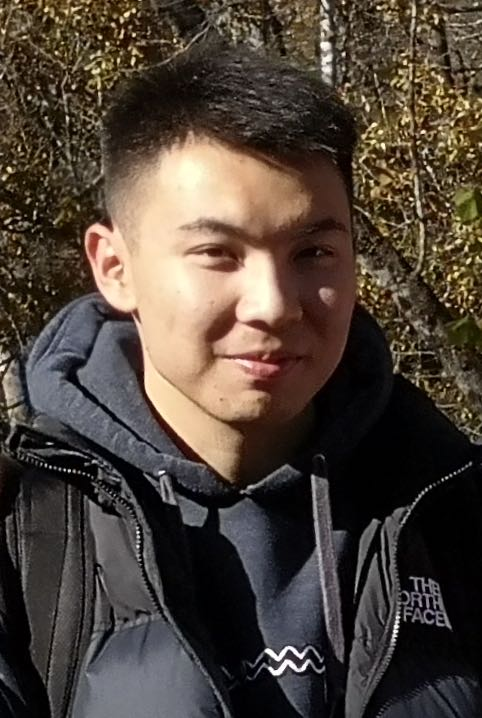
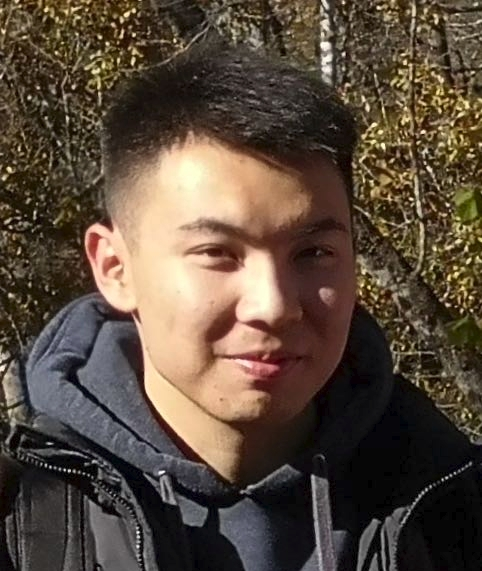
update authors

diff --git a/content/authors/Bingqing_Wan/_index.md b/content/authors/Bingqing_Wan/_index.md
@@ -18,9 +18,13 @@ user_groups:
 I am a undergraduate visiting research student at Prof. Hong Zhang's group in 2022. Then, I am going back to Canada to continue my junior year in Engineering Science at the University of Toronto, pursuing a major in robotics engineering and a minor in artificial intelligence engineering. Feel free to reach out to me via email or LinkedIn for any potential collaborations.
 
 ### Research
-![research](authors_research/jiahao_ruan.gif "Research Introduction")
+![research](authors_research/bingqing_wan.png "Research Introduction")
 
 My current research interests lie in the fields of domestic mobile robots and autonomous driving, including:
 1. Learning-based motion planning
 2. Keyframe-based visual simultaneous localization and mapping
 3. Semantic mapping
+
+### Publications
+- Wan, Bingqing (Selina), et al. "Data Driven Optical Flow Prediction for Improving Direct Method
+Visual SLAM Systems." 2022 IEEE international conference on robotics and biomimetics (ROBIO). IEEE, 2022.

diff --git a/content/authors/Jiahao_Ruan/_index.md b/content/authors/Jiahao_Ruan/_index.md
@@ -18,6 +18,8 @@ user_groups:
 I am a visiting student in Robotics and Computer Vision Lab at Southern University of Science and Technology since 03/2022. I am currently working toward the M.E. degree in  Mechanical Engineering with the School of Electro-Mechanical Engineering, Guangdong University of Technology, Guangzhou, China. My research include visual SLAM and robot localization.
 
 ### Research
+![research](authors_research/jiahao_ruan.gif "Research Introduction")
+
 My research interests focus on visual localization and visual SLAM for robot navigation, including:
 
 1. Learning-based visual localization

diff --git a/content/people/alumni.md b/content/people/alumni.md
@@ -3,11 +3,11 @@ title:
 subtitle:
 widget: blank
 headless: true
-weight: 40
+weight: 90
 design:
   columns: '1'
 # Activate this widget? true/false
 active: true
 ---
-# Alumni
+## Alumni
 - Xinkai Jiang, ...
